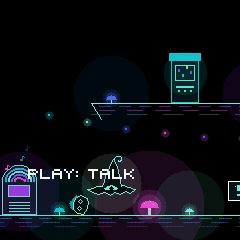
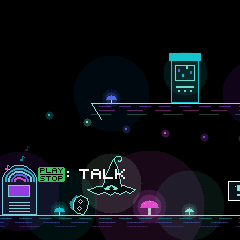
0.6: the PLAY button drawn as the green button wherever a text names it
PB in a text is the PLAY button itself: a green key with PLAY over a line over STOP, as on the
panel (at the smallest text size, a green key with its line). Every prompt that asks for the
button uses it, in all six languages; "play" as a verb or a noun stays a word.

Changed region(s): [[0.1167, 0.6708, 0.5542, 0.7583]]

diff --git a/firmware/src/arcave/ac_text.h b/firmware/src/arcave/ac_text.h
@@ -2,6 +2,7 @@
 /* FM ARCAVE's words, in English, German, Danish, French, Spanish and Turkish. Every line the game shows is here; the
  * font (tools/gen_tables.py) has capitals only, with the accents these six need. In a dialogue '|' ends a page. */
 
+/* PB in a text is the PLAY button itself: drawn as the green button, PLAY over a line over STOP (ac_base.h) */
 enum { L_EN, L_DE, L_DA, L_FR, L_ES, L_TR, L_N };
 static uint8_t lang;
 
@@ -33,10 +34,10 @@ static const char *const TX[T_N][L_N] = {
     [T_TAGLINE] = {"ELECTRIC UNDERGROUND ARCADE", "ELEKTRISCHE UNTERGRUND-ARCADE", "ELEKTRISK UNDERJORDISK ARKADE",
                    "ARCADE ÉLECTRIQUE SOUTERRAINE", "ARCADE ELÉCTRICO SUBTERRÁNEO",
         "ELEKTRİKLİ YERALTI OYUN SALONU"},
-    [T_WAKE1] = {"PRESS PLAY TO", "DRÜCKE PLAY, UM", "TRYK PLAY FOR AT", "APPUIE SUR PLAY", "PULSA PLAY PARA",
+    [T_WAKE1] = {"PRESS " PB " TO", "DRÜCKE " PB ", UM", "TRYK " PB " FOR AT", "APPUIE SUR " PB "", "PULSA " PB " PARA",
         "ROCK'I UYANDIRMAK İÇİN"},
     [T_WAKE2] = {"WAKE UP ROCK", "ROCK ZU WECKEN", "VÆKKE ROCK", "POUR RÉVEILLER ROCK", "DESPERTAR A ROCK",
-        "PLAY'E BAS"},
+        "" PB "'E BAS"},
     [T_ROLL] = {"TURN A KNOB TO ROLL", "DREH EINEN KNOPF ZUM ROLLEN", "DREJ EN KNAP FOR AT RULLE",
                 "TOURNE UN BOUTON POUR ROULER", "GIRA UN MANDO PARA RODAR",
         "YUVARLANMAK İÇİN BİR DÜĞME ÇEVİR"},
@@ -45,8 +46,8 @@ static const char *const TX[T_N][L_N] = {
         "TUŞLARLA ZIPLA"},
     [T_ENTER] = {"ENTER ARCAVE", "ARCAVE BETRETEN", "GÅ IND I ARCAVEN", "ENTRER DANS L'ARCAVE", "ENTRA EN LA ARCAVE",
         "ARCAVE'E GİR"},
-    [T_PRESSPLAY] = {"PRESS PLAY", "DRÜCKE PLAY", "TRYK PLAY", "APPUIE SUR PLAY", "PULSA PLAY",
-        "PLAY'E BAS"},
+    [T_PRESSPLAY] = {"PRESS " PB "", "DRÜCKE " PB "", "TRYK " PB "", "APPUIE SUR " PB "", "PULSA " PB "",
+        "" PB "'E BAS"},
     [T_SIGN1] = {"ARCAVE >", "ARCAVE >", "ARCAVE >", "ARCAVE >", "ARCAVE >",
         "ARCAVE >"},
     [T_SIGN2] = {"KEEP ROLLING", "WEITER ROLLEN", "RUL VIDERE", "ROULE ENCORE", "SIGUE RODANDO",
@@ -67,33 +68,33 @@ static const char *const TX[T_N][L_N] = {
         "MÜZİK KUTUSU BOZUK"},
     [T_NOPOWER] = {"NO POWER", "KEIN STROM", "INGEN STRØM", "PAS DE COURANT", "SIN CORRIENTE",
         "ELEKTRİK YOK"},
-    [T_TALK] = {"PLAY: TALK", "PLAY: REDEN", "PLAY: TAL", "PLAY : PARLER", "PLAY: HABLAR",
-        "PLAY: KONUŞ"},
-    [T_FIX] = {"PLAY: REPAIR", "PLAY: REPARIEREN", "PLAY: REPARER", "PLAY : RÉPARER", "PLAY: REPARAR",
-        "PLAY: ONAR"},
-    [T_START] = {"PLAY: START", "PLAY: START", "PLAY: START", "PLAY : JOUER", "PLAY: JUGAR",
-        "PLAY: BAŞLA"},
+    [T_TALK] = {"" PB ": TALK", "" PB ": REDEN", "" PB ": TAL", "" PB " : PARLER", "" PB ": HABLAR",
+        "" PB ": KONUŞ"},
+    [T_FIX] = {"" PB ": REPAIR", "" PB ": REPARIEREN", "" PB ": REPARER", "" PB " : RÉPARER", "" PB ": REPARAR",
+        "" PB ": ONAR"},
+    [T_START] = {"" PB ": START", "" PB ": START", "" PB ": START", "" PB " : JOUER", "" PB ": JUGAR",
+        "" PB ": BAŞLA"},
     [T_HAT] = {"THE HAT", "DER HUT", "HATTEN", "LE CHAPEAU", "EL SOMBRERO",
         "ŞAPKA"},
     [T_HAT_HELLO] = {
         "THERE YOU ARE, ROCK! I AM SO HAPPY YOU CAME.|I AM THE HAT. THE WIZARD IS OUT. I AM WHAT STAYED.|"
-        "THE JUKEBOX HAS GONE OUT. IT POWERED ALL THREE ARCADE MACHINES.|FIX IT AND THE GAMES WAKE UP. ROLL TO THE JUKEBOX AND PRESS PLAY.",
+        "THE JUKEBOX HAS GONE OUT. IT POWERED ALL THREE ARCADE MACHINES.|FIX IT AND THE GAMES WAKE UP. ROLL TO THE JUKEBOX AND PRESS " PB ".",
         "DA BIST DU JA, ROCK! WIE SCHÖN, DASS DU DA BIST.|ICH BIN DER HUT. DER ZAUBERER IST FORT. ICH BIN GEBLIEBEN.|"
-        "DIE JUKEBOX IST AUSGEGANGEN. SIE GAB ALLEN DREI AUTOMATEN STROM.|REPARIER SIE, DANN WACHEN DIE SPIELE AUF. ROLL ZUR JUKEBOX UND DRÜCKE PLAY.",
+        "DIE JUKEBOX IST AUSGEGANGEN. SIE GAB ALLEN DREI AUTOMATEN STROM.|REPARIER SIE, DANN WACHEN DIE SPIELE AUF. ROLL ZUR JUKEBOX UND DRÜCKE " PB ".",
         "DER ER DU JO, ROCK! HVOR ER JEG GLAD FOR, AT DU KOM.|JEG ER HATTEN. TROLDMANDEN ER UDE. JEG BLEV TILBAGE.|"
-        "JUKEBOXEN ER GÅET UD. DEN GAV STRØM TIL ALLE TRE SPILLEMASKINER.|REPARER DEN, SÅ VÅGNER SPILLENE. RUL HEN TIL JUKEBOXEN OG TRYK PLAY.",
+        "JUKEBOXEN ER GÅET UD. DEN GAV STRØM TIL ALLE TRE SPILLEMASKINER.|REPARER DEN, SÅ VÅGNER SPILLENE. RUL HEN TIL JUKEBOXEN OG TRYK " PB ".",
         "TE VOILÀ, ROCK ! QUE JE SUIS CONTENT DE TE VOIR.|JE SUIS LE CHAPEAU. LE MAGICIEN EST SORTI. MOI, JE SUIS RESTÉ.|"
-        "LE JUKE-BOX S'EST ÉTEINT. IL ALIMENTAIT LES TROIS BORNES D'ARCADE.|RÉPARE-LE ET LES JEUX SE RÉVEILLENT. ROULE JUSQU'AU JUKE-BOX ET APPUIE SUR PLAY.",
+        "LE JUKE-BOX S'EST ÉTEINT. IL ALIMENTAIT LES TROIS BORNES D'ARCADE.|RÉPARE-LE ET LES JEUX SE RÉVEILLENT. ROULE JUSQU'AU JUKE-BOX ET APPUIE SUR " PB ".",
         "¡AHÍ ESTÁS, ROCK! QUÉ ALEGRÍA QUE HAYAS VENIDO.|SOY EL SOMBRERO. EL MAGO HA SALIDO. YO ME QUEDÉ.|"
-        "LA JUKEBOX SE HA APAGADO. DABA CORRIENTE A LAS TRES MÁQUINAS.|ARRÉGLALA Y LOS JUEGOS DESPIERTAN. RUEDA HASTA LA JUKEBOX Y PULSA PLAY.",
-        "İŞTE BURADASIN, ROCK! GELDİĞİNE ÇOK SEVİNDİM.|BEN ŞAPKA'YIM. BÜYÜCÜ DIŞARIDA. GERİYE BEN KALDIM.|MÜZİK KUTUSU SÖNDÜ. ÜÇ OYUN MAKİNESİNE DE GÜCÜ O VERİYORDU.|ONU ONAR, OYUNLAR UYANSIN. MÜZİK KUTUSUNA YUVARLAN VE PLAY'E BAS."},
+        "LA JUKEBOX SE HA APAGADO. DABA CORRIENTE A LAS TRES MÁQUINAS.|ARRÉGLALA Y LOS JUEGOS DESPIERTAN. RUEDA HASTA LA JUKEBOX Y PULSA " PB ".",
+        "İŞTE BURADASIN, ROCK! GELDİĞİNE ÇOK SEVİNDİM.|BEN ŞAPKA'YIM. BÜYÜCÜ DIŞARIDA. GERİYE BEN KALDIM.|MÜZİK KUTUSU SÖNDÜ. ÜÇ OYUN MAKİNESİNE DE GÜCÜ O VERİYORDU.|ONU ONAR, OYUNLAR UYANSIN. MÜZİK KUTUSUNA YUVARLAN VE " PB "'E BAS."},
     [T_HAT_REMIND] = {
-        "THE JUKEBOX, ROCK. IT IS JUST OVER THERE. PRESS PLAY WHEN YOU REACH IT.",
-        "DIE JUKEBOX, ROCK. SIE STEHT GLEICH DA DRÜBEN. DRÜCKE PLAY, WENN DU DA BIST.",
-        "JUKEBOXEN, ROCK. DEN STÅR LIGE DEROVRE. TRYK PLAY, NÅR DU ER DER.",
-        "LE JUKE-BOX, ROCK. IL EST JUSTE LÀ. APPUIE SUR PLAY QUAND TU Y ES.",
-        "LA JUKEBOX, ROCK. ESTÁ AHÍ MISMO. PULSA PLAY CUANDO LLEGUES.",
-        "MÜZİK KUTUSU, ROCK. HEMEN ŞURADA. YANINA VARINCA PLAY'E BAS."},
+        "THE JUKEBOX, ROCK. IT IS JUST OVER THERE. PRESS " PB " WHEN YOU REACH IT.",
+        "DIE JUKEBOX, ROCK. SIE STEHT GLEICH DA DRÜBEN. DRÜCKE " PB ", WENN DU DA BIST.",
+        "JUKEBOXEN, ROCK. DEN STÅR LIGE DEROVRE. TRYK " PB ", NÅR DU ER DER.",
+        "LE JUKE-BOX, ROCK. IL EST JUSTE LÀ. APPUIE SUR " PB " QUAND TU Y ES.",
+        "LA JUKEBOX, ROCK. ESTÁ AHÍ MISMO. PULSA " PB " CUANDO LLEGUES.",
+        "MÜZİK KUTUSU, ROCK. HEMEN ŞURADA. YANINA VARINCA " PB "'E BAS."},
     [T_HAT_THANKS] = {
         "YOU DID IT! LISTEN TO THAT. YOUR VERY OWN SONG!|THANK YOU, ROCK. THE ARCAVE IS AWAKE AGAIN.|"
         "ALL THREE MACHINES ARE YOURS. FREE PLAY, AS LONG AS YOU LIKE.|AND TURN ALGORITHM TO CHANGE THE MUSIC.",
@@ -160,9 +161,9 @@ static const char *const TX[T_N][L_N] = {
     [T_TAKE_FEW] = {"PLAY AT LEAST 3 NOTES", "SPIEL MINDESTENS 3 TÖNE", "SPIL MINDST 3 TONER", "JOUE AU MOINS 3 NOTES",
                     "TOCA AL MENOS 3 NOTAS",
         "EN AZ 3 NOTA ÇAL"},
-    [T_TAKE_KEEP] = {"PLAY: KEEP    REC: AGAIN", "PLAY: BEHALTEN    REC: NOCHMAL", "PLAY: BEHOLD    REC: IGEN",
-                     "PLAY : GARDER    REC : REFAIRE", "PLAY: GUARDAR    REC: OTRA VEZ",
-        "PLAY: SAKLA    REC: YENİDEN"},
+    [T_TAKE_KEEP] = {"" PB ": KEEP    REC: AGAIN", "" PB ": BEHALTEN    REC: NOCHMAL", "" PB ": BEHOLD    REC: IGEN",
+                     "" PB " : GARDER    REC : REFAIRE", "" PB ": GUARDAR    REC: OTRA VEZ",
+        "" PB ": SAKLA    REC: YENİDEN"},
     [T_POWER] = {"THE POWER IS BACK", "DER STROM IST ZURÜCK", "STRØMMEN ER TILBAGE", "LE COURANT EST REVENU", "HA VUELTO LA CORRIENTE",
         "ELEKTRİK GERİ GELDİ"},
     [T_NOWPLAYING] = {"NOW PLAYING", "JETZT LÄUFT", "NU SPILLER", "À L'ÉCOUTE", "SUENA AHORA",
@@ -179,11 +180,11 @@ static const char *const TX[T_N][L_N] = {
     [T_HOME_BACK] = {"HOME: BACK TO THE CAVE", "HOME: ZURÜCK IN DIE HÖHLE", "HOME: TILBAGE TIL HULEN", "HOME : RETOUR À LA GROTTE",
                      "HOME: VOLVER A LA CUEVA",
         "HOME: MAĞARAYA DÖN"},
-    [T_PLAY_START] = {"PRESS PLAY TO START", "DRÜCKE PLAY ZUM START", "TRYK PLAY FOR AT STARTE", "APPUIE SUR PLAY POUR JOUER",
-                      "PULSA PLAY PARA EMPEZAR",
-        "BAŞLAMAK İÇİN PLAY'E BAS"},
-    [T_PLAY_AGAIN] = {"PLAY: AGAIN", "PLAY: NOCHMAL", "PLAY: IGEN", "PLAY : REJOUER", "PLAY: OTRA VEZ",
-        "PLAY: YENİDEN"},
+    [T_PLAY_START] = {"PRESS " PB " TO START", "DRÜCKE " PB " ZUM START", "TRYK " PB " FOR AT STARTE", "APPUIE SUR " PB " POUR JOUER",
+                      "PULSA " PB " PARA EMPEZAR",
+        "BAŞLAMAK İÇİN " PB "'E BAS"},
+    [T_PLAY_AGAIN] = {"" PB ": AGAIN", "" PB ": NOCHMAL", "" PB ": IGEN", "" PB " : REJOUER", "" PB ": OTRA VEZ",
+        "" PB ": YENİDEN"},
     [T_RUN_1] = {"ANY KEY: HOP A CRYSTAL\nTHE TOP ROW HOPS HIGHER", "TASTE: ÜBER EINEN KRISTALL HÜPFEN\nDIE OBERE REIHE HÜPFT HÖHER",
                  "TANGENT: HOP OVER EN KRYSTAL\nØVERSTE RÆKKE HOPPER HØJERE", "UNE TOUCHE : SAUTE UN CRISTAL\nLA RANGÉE DU HAUT SAUTE PLUS HAUT",
                  "UNA TECLA: SALTA UN CRISTAL\nLA FILA DE ARRIBA SALTA MÁS",
@@ -248,9 +249,9 @@ static const char *const TX[T_N][L_N] = {
     [T_RESET] = {"START THE STORY OVER", "GESCHICHTE NEU BEGINNEN", "BEGYND HISTORIEN FORFRA", "RECOMMENCER L'HISTOIRE",
                  "EMPEZAR LA HISTORIA DE NUEVO",
         "HİKAYEYE BAŞTAN BAŞLA"},
-    [T_SURE] = {"PRESS PLAY AGAIN TO DO IT", "NOCHMAL PLAY ZUM BESTÄTIGEN", "TRYK PLAY IGEN FOR AT GØRE DET",
-                "APPUIE ENCORE SUR PLAY", "PULSA PLAY OTRA VEZ",
-        "YAPMAK İÇİN YİNE PLAY'E BAS"},
+    [T_SURE] = {"PRESS " PB " AGAIN TO DO IT", "NOCHMAL " PB " ZUM BESTÄTIGEN", "TRYK " PB " IGEN FOR AT GØRE DET",
+                "APPUIE ENCORE SUR " PB "", "PULSA " PB " OTRA VEZ",
+        "YAPMAK İÇİN YİNE " PB "'E BAS"},
     [T_CLOSE] = {"GLO: CLOSE", "GLO: SCHLIESSEN", "GLO: LUK", "GLO : FERMER", "GLO: CERRAR",
         "GLO: KAPAT"},
     [T_PAUSED] = {"PAUSED", "PAUSE", "PAUSE", "PAUSE", "PAUSA",
@@ -265,10 +266,10 @@ static const char *const TX[T_N][L_N] = {
     [T_LINK_CLOCK] = {"FOLLOWING A MIDI CLOCK", "FOLGT EINER MIDI-CLOCK", "FØLGER ET MIDI-UR", "SUIT UNE HORLOGE MIDI",
                       "SIGUE UN RELOJ MIDI",
         "MIDI SAATİNİ İZLİYOR"},
-    [T_MENU_HELP] = {"SELECT: MOVE   PRESETS: CHANGE   PLAY: OK", "SELECT: WÄHLEN   PRESETS: ÄNDERN   PLAY: OK",
-                     "SELECT: VÆLG   PRESETS: SKIFT   PLAY: OK", "SELECT : CHOISIR   PRESETS : CHANGER   PLAY : OK",
-                     "SELECT: ELEGIR   PRESETS: CAMBIAR   PLAY: OK",
-        "SELECT: GEZ   PRESETS: DEĞİŞTİR   PLAY: TAMAM"},
+    [T_MENU_HELP] = {"SELECT: MOVE   PRESETS: CHANGE   " PB ": OK", "SELECT: WÄHLEN   PRESETS: ÄNDERN   " PB ": OK",
+                     "SELECT: VÆLG   PRESETS: SKIFT   " PB ": OK", "SELECT : CHOISIR   PRESETS : CHANGER   " PB " : OK",
+                     "SELECT: ELEGIR   PRESETS: CAMBIAR   " PB ": OK",
+        "SELECT: GEZ   PRESETS: DEĞİŞTİR   " PB ": TAMAM"},
     [T_ABOUT_1] = {
         "THE MYSTIC ARCAVE IS AN ELECTRIC UNDERGROUND ARCADE: A CAVE OF GLOWING MUSHROOMS WHERE PET ROCKS ROLL, JUMP AND RACE.",
         "DIE MYSTIC ARCAVE IST EINE ELEKTRISCHE UNTERGRUND-ARCADE: EINE HÖHLE VOLLER LEUCHTPILZE, IN DER HAUSTIER-STEINE ROLLEN, SPRINGEN UND RENNEN.",
@@ -347,10 +348,10 @@ static const char *const TX[T_N][L_N] = {
         "OYUN SÜRESİ"},
     [T_SECRETS] = {"SECRETS", "GEHEIMNISSE", "HEMMELIGHEDER", "SECRETS", "SECRETOS",
         "SIRLAR"},
-    [T_SCORES_PROMPT] = {"PLAY: SCORES", "PLAY: REKORDE", "PLAY: REKORDER", "PLAY : RECORDS", "PLAY: RÉCORDS",
-        "PLAY: REKORLAR"},
-    [T_NEWSONG] = {"PLAY: NEW SONG", "PLAY: NEUES LIED", "PLAY: NY SANG", "PLAY : NOUVELLE CHANSON", "PLAY: NUEVA CANCIÓN",
-        "PLAY: YENİ ŞARKI"},
+    [T_SCORES_PROMPT] = {"" PB ": SCORES", "" PB ": REKORDE", "" PB ": REKORDER", "" PB " : RECORDS", "" PB ": RÉCORDS",
+        "" PB ": REKORLAR"},
+    [T_NEWSONG] = {"" PB ": NEW SONG", "" PB ": NEUES LIED", "" PB ": NY SANG", "" PB " : NOUVELLE CHANSON", "" PB ": NUEVA CANCIÓN",
+        "" PB ": YENİ ŞARKI"},
     [T_SCROLL] = {"TURN ANY KNOB: SCROLL", "KNOPF DREHEN: BLÄTTERN", "DREJ EN KNAP: RUL", "TOURNE UN BOUTON : DÉFILER", "GIRA UN MANDO: DESPLAZAR",
         "BİR DÜĞME ÇEVİR: KAYDIR"},
     [T_FX_HINT] = {"KNOB 1 2 3 4: EFFECTS   HOME: INFO", "KNOB 1 2 3 4: EFFEKTE   HOME: INFO", "KNOB 1 2 3 4: EFFEKTER   HOME: INFO",
@@ -396,8 +397,8 @@ static const char *const TX[T_N][L_N] = {
                 "TOURNE UN BOUTON POUR EN AJOUTER, À FOND EN ARRIÈRE POUR RIEN\nJOUE LES TOUCHES POUR L'ENTENDRE",
                 "GIRA UN MANDO PARA MÁS, DEL TODO ATRÁS PARA NADA\nTOCA LAS TECLAS PARA OÍRLO",
         "DAHA FAZLASI İÇİN DÜĞMEYİ AÇ, HİÇ OLMASIN DİYE SONUNA KADAR KIS\nDUYMAK İÇİN TUŞLARI ÇAL"},
-    [T_EXIT] = {"PLAY: GO OUTSIDE", "PLAY: NACH DRAUSSEN", "PLAY: GÅ UDENFOR", "PLAY : SORTIR", "PLAY: SALIR",
-        "PLAY: DIŞARI ÇIK"},
+    [T_EXIT] = {"" PB ": GO OUTSIDE", "" PB ": NACH DRAUSSEN", "" PB ": GÅ UDENFOR", "" PB " : SORTIR", "" PB ": SALIR",
+        "" PB ": DIŞARI ÇIK"},
     [T_RACE_GO] = {"\xE2\x86\x90 RACE BACK TO THE START", "\xE2\x86\x90 RENNEN ZURÜCK ZUM START", "\xE2\x86\x90 KAPLØB TILBAGE TIL START",
                    "\xE2\x86\x90 COURSE JUSQU'AU DÉPART", "\xE2\x86\x90 CARRERA HASTA LA SALIDA",
         "\xE2\x86\x90 BAŞLANGICA GERİ YARIŞ"},
@@ -413,7 +414,7 @@ static const char *const TX[T_N][L_N] = {
         "GERİ YARIŞ"},
     [T_SCORES_CLOSE] = {"EDIT: CLOSE", "EDIT: SCHLIESSEN", "EDIT: LUK", "EDIT : FERMER", "EDIT: CERRAR",
         "EDIT: KAPAT"},
-    [T_PAGE] = {"PLAY: NEXT", "PLAY: WEITER", "PLAY: NÆSTE", "PLAY : SUITE", "PLAY: SIGUE",
-        "PLAY: DEVAM"},
+    [T_PAGE] = {"" PB ": NEXT", "" PB ": WEITER", "" PB ": NÆSTE", "" PB " : SUITE", "" PB ": SIGUE",
+        "" PB ": DEVAM"},
 };
 #define TR(id) (TX[id][lang])

diff --git a/firmware/src/arcave/ac_base.h b/firmware/src/arcave/ac_base.h
@@ -235,17 +235,38 @@ static uint32_t fnt_glyph(uint32_t cp)
     }
     return fnt_glyph('?');
 }
+/* the PLAY button in a line of text (PB in a string): the green button as it is on the panel, PLAY over a line over
+ * STOP. At the smallest scale there is no room for the words: a green key with its line */
+#define CP_PLAY 0xE000u
+#define PB "\xEE\x80\x80"
+#define PLAY_GREEN HEXC(0x35d05c)
+static int32_t gtextw(const char *s, int32_t sc);
+static int32_t play_w(int32_t sc) { return sc == 1 ? 11 : gtextw("PLAY", sc / 2) + 4 * (sc / 2); }
+static int32_t glyph_adv(uint32_t cp, int32_t sc) { return cp == CP_PLAY ? play_w(sc) + sc : (FNT_W[fnt_glyph(cp)] + 1) * sc; }
 static int32_t gtextw(const char *s, int32_t sc)
 {
     int32_t w = 0;
-    while (*s) w += (FNT_W[fnt_glyph(utf8_next(&s))] + 1) * sc;
+    while (*s) w += glyph_adv(utf8_next(&s), sc);
     return w ? w - sc : 0;
+}
+static int32_t gtext(int32_t x, int32_t y, const char *s, col_t c, int32_t sc);
+static void play_draw(int32_t x, int32_t y, int32_t sc)   /* y: the capitals' top of the line it stands in */
+{
+    int32_t u = sc / 2, w = play_w(sc), h, top;
+    if (sc == 1) { grect(x, y - 1, w, 7, PLAY_GREEN); grect(x + 2, y + 2, w - 4, 1, 0); return; }
+    h = 15 * u; top = y + (5 * sc - h) / 2;
+    grect(x + u, top, w - 2 * u, h, PLAY_GREEN); grect(x, top + u, w, h - 2 * u, PLAY_GREEN);   /* (its corners off) */
+    gtext(x + 2 * u, top + u, "PLAY", 0, u);
+    grect(x + 2 * u, top + 7 * u, w - 4 * u, u, 0);
+    gtext(x + 2 * u, top + 9 * u, "STOP", 0, u);
 }
 /* text with its capitals' top at y (accents reach 2 * sc above); returns the x after it */
 static int32_t gtext(int32_t x, int32_t y, const char *s, col_t c, int32_t sc)
 {
     while (*s) {
-        uint32_t g = fnt_glyph(utf8_next(&s)), r, b;
+        uint32_t cp = utf8_next(&s), g, r, b;
+        if (cp == CP_PLAY) { play_draw(x, y, sc); x += play_w(sc) + sc; continue; }
+        g = fnt_glyph(cp);
         for (r = 0; r < 8u; r++) {
             uint32_t row = FNT_ROW[g][r];
             for (b = 0; row; b++, row = (row << 1) & 0xFFu)
@@ -275,7 +296,7 @@ static int32_t gtext_wrap(int32_t x, int32_t y, int32_t w, const char *s, col_t 
         while (*p && *p != '\n') {
             const char *q = p;
             uint32_t cp = utf8_next(&q);
-            int32_t gw = (FNT_W[fnt_glyph(cp)] + 1) * sc;
+            int32_t gw = glyph_adv(cp, sc);
             if (lw + gw - sc > w && (brk || p > s)) break;
             if (cp == ' ') brk = p;
             lw += gw;

diff --git a/firmware/src/arcave/ac_menu.h b/firmware/src/arcave/ac_menu.h
@@ -70,7 +70,7 @@ static void menu_draw(void)
         gtext_wrap(12, top + 2 * sc, 216, buf + imin(mn.win, n), th->text, sc, TLH(sc), -1, 0, 0, 1, imax(1, room / TLH(sc)), &rest);
         mn.rest = *rest ? (int32_t)(rest - (buf + imin(mn.win, n))) : 0;
         for (i = 0; i < 4; i++) grect(10 + i * 10, 232 - 2 * sf, 6, 2 * sf, i == mn.about - 1 ? th->pad : th->mute);
-        gtextr(230, 238 - TLH(sf) + 2 * sf, mn.rest ? "PLAY \xE2\x86\x93" : "PLAY \xE2\x86\x92", th->pad, sf);
+        gtextr(230, 238 - TLH(sf) + 2 * sf, mn.rest ? PB " \xE2\x86\x93" : PB " \xE2\x86\x92", th->pad, sf);
         return;
     }
     gfit(120, 6 + 2 * sh, 232, TR(T_SETTINGS), th->text, sh);

diff --git a/firmware/src/arcave/ac_cave.h b/firmware/src/arcave/ac_cave.h
@@ -90,7 +90,7 @@ static void dlg_draw(void)
     gbox(4, y, 232, h, th->rim);
     gtext(12, y + 5 + 2 * sn, TR(dlg.name_id), th->caps[3], sn);
     dlg_layout(1, y + 6 + TLH(sn) + 2 + 2 * sc);
-    if (dlg.shown >= dlg.total && ipulse((uint32_t)dlg.t, 900) > 128) gtextr(228, y + 5 + 2 * sn, dlg.rest ? "PLAY \xE2\x86\x93" : "PLAY \xE2\x86\x92", th->pad, sn);
+    if (dlg.shown >= dlg.total && ipulse((uint32_t)dlg.t, 900) > 128) gtextr(228, y + 5 + 2 * sn, dlg.rest ? PB " \xE2\x86\x93" : PB " \xE2\x86\x92", th->pad, sn);
 }
 
 /* ---------------------------------------------------------------- the cave */
